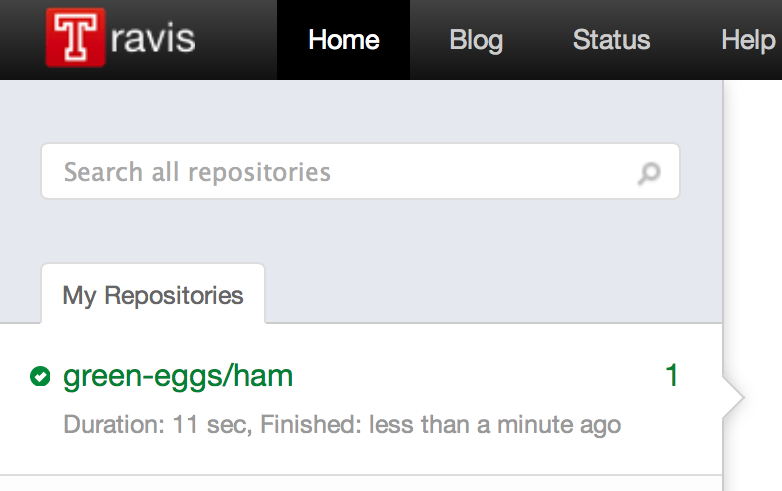
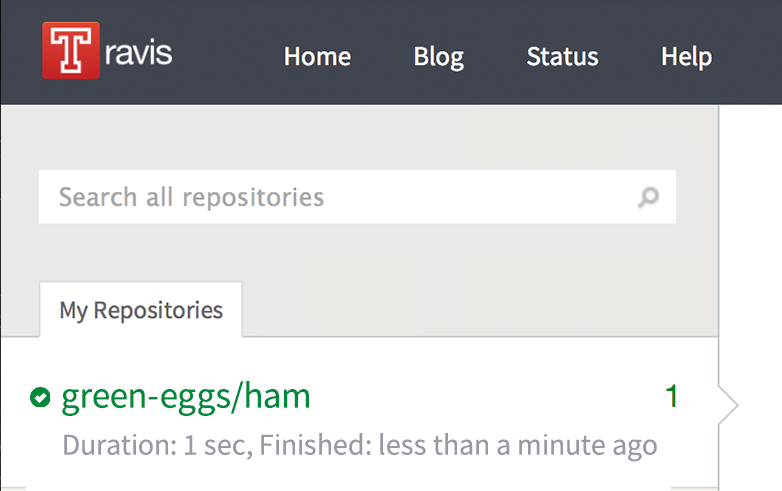
replaced first build and first project no recent screen shots and started re-styling switch class

diff --git a/assets/styles/profile/hooks.sass b/assets/styles/profile/hooks.sass
@@ -73,10 +73,7 @@
       height: 18px
       margin: 0 10px 0 15px
       padding: 0 10px 0 0
-      @include background(linear-gradient(#eee, #fff))
-      @include box-shadow(#ccc 0px 2px 3px 0px inset)
       border: 1px solid #bdbdbd
-      @include border-radius(4px)
       line-height: 21px
       font-size: 11px
       color: #999
@@ -89,17 +86,14 @@
         left: -1px
         width: 28px
         height: 18px
-        @include background(linear-gradient(#ddd, #fff))
-        @include box-shadow(#fff 0px 1px 3px 0px inset)
+        background: #e9e9e7
         border: 1px solid #bdbdbd
-        @include border-radius(4px)
 
     &.active .switch
       width: 56px
       padding: 0 0 0 14px
-      @include background(linear-gradient(#3a78f9, #93bafc))
-      @include box-shadow(#2153be 0px 2px 3px 0px inset)
-      border: 1px solid #4b7cde
+      background: #40454f
+      border: 1px solid #bdbdbd
       color: #fff
       text-align: left
       &:before
